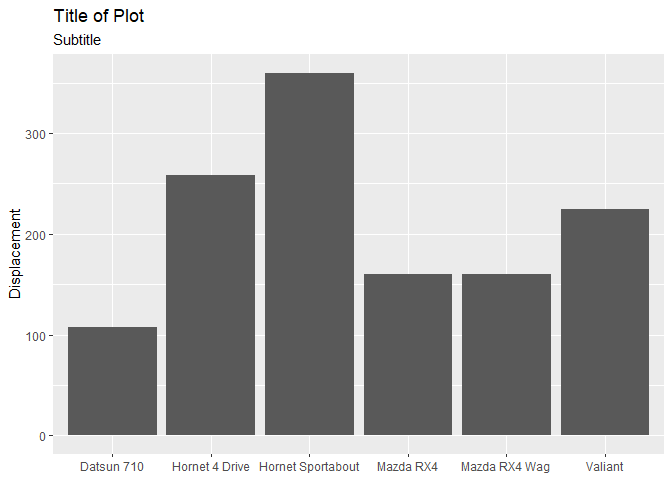
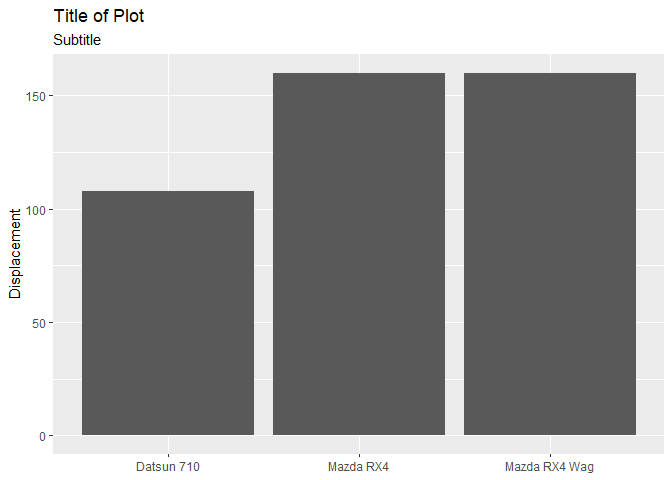
Minor change

diff --git a/README.md b/README.md
@@ -31,7 +31,7 @@ library(tidyverse)
 library(tcdsb)
 
 mtcars |> 
-  head() |> 
+  head(3) |> 
   rownames_to_column("car") |> 
   ggplot(aes(x = car, y = disp)) +
   geom_col() + 
@@ -58,7 +58,7 @@ a consistent theme is applied.
 ``` r
 
 mtcars |> 
-  head() |> 
+  head(3) |> 
   rownames_to_column("car") |> 
   ggplot(aes(x = car, y = disp)) +
   geom_col() + 
@@ -76,7 +76,7 @@ Custom colours can be added to the chart using `tcdsb_board_color`.
 ``` r
 
 mtcars |> 
-  head() |> 
+  head(3) |> 
   rownames_to_column("car") |> 
   ggplot(aes(x = car, y = disp)) +
   geom_col(fill = tcdsb_board_color) + 
